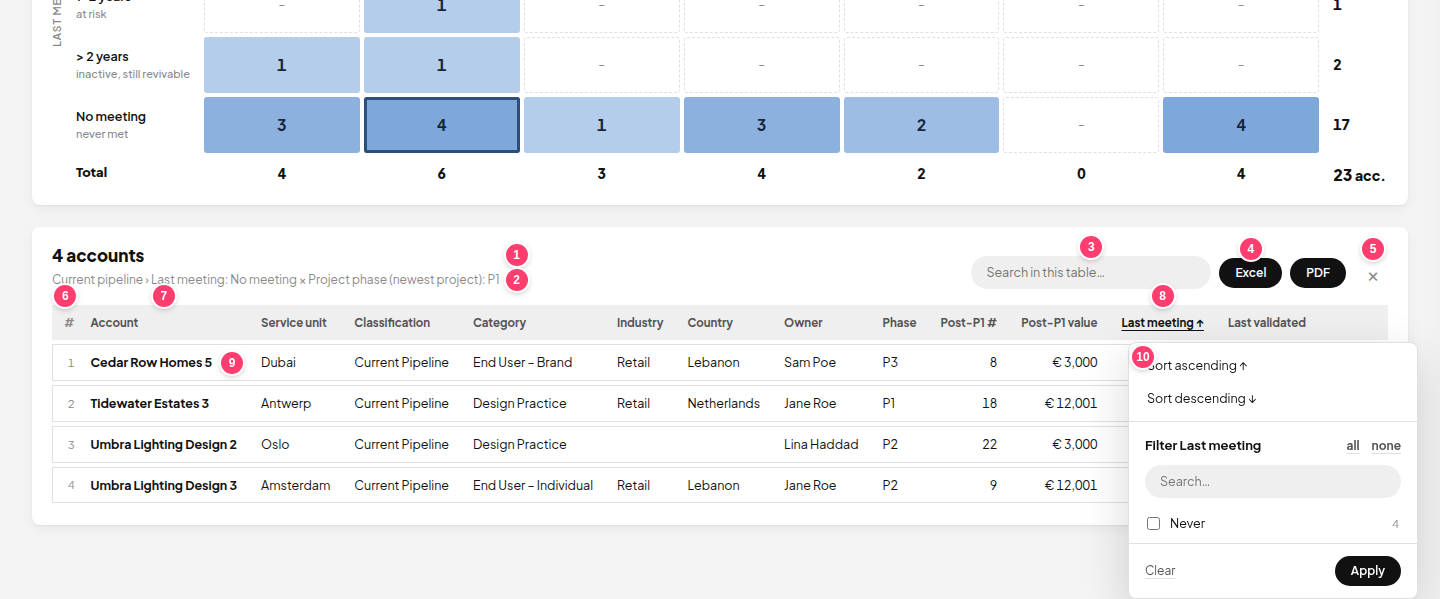
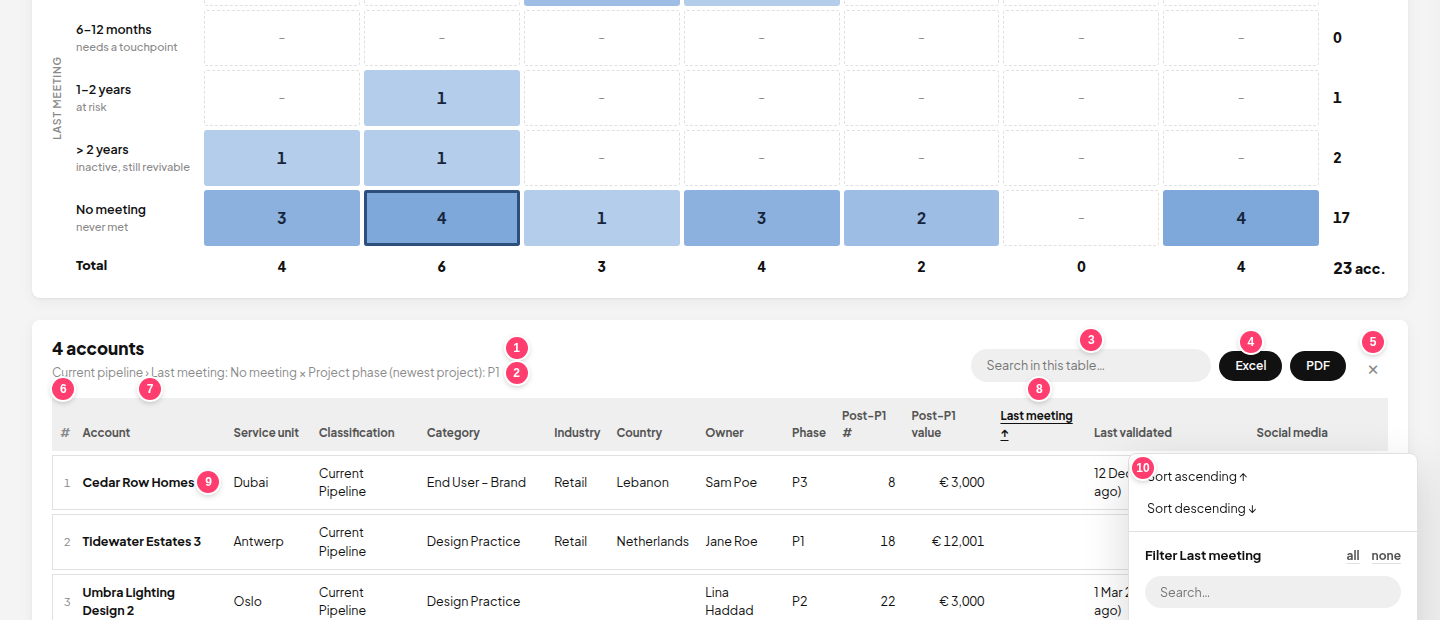
Account table fits the screen: no sideways scrolling
- Text wraps onto a second line instead of making the table wider; amounts
  stay on one line; tighter spacing below 1200px screen width
- Fix: 'Last validated' dates that arrive as text numbers (e.g. "45656") were
  read as the year 45656; they are now read as Excel dates

Claude-Session: https://claude.ai/code/session_01RUoswuWJA3sgR5x3oZAChS

diff --git a/app/table/table-css.html b/app/table/table-css.html
@@ -61,8 +61,9 @@
 }
 
 /* the table itself: square corners, rows spaced apart */
+/* no sideways scrolling: the table always fits the screen, long text wraps onto a second line */
 .tw {
-  overflow: auto;
+  overflow: visible;
 }
 table.tb {
   border-collapse: separate;
@@ -76,8 +77,8 @@ table.tb {
   font-weight: 700;
   color: var(--text-soft);
   background: var(--soft);
-  padding: 9px 12px;
-  white-space: nowrap;
+  padding: 9px 8px;
+  vertical-align: bottom;
   cursor: pointer;
   position: sticky;
   top: 0;
@@ -89,14 +90,11 @@ table.tb {
   text-underline-offset: 3px;
 }
 .tb td {
-  padding: 8px 12px;
+  padding: 8px 8px;
   background: var(--surface);
   border-top: 1px solid var(--line);
   border-bottom: 1px solid var(--line);
-  white-space: nowrap;
-  max-width: 260px;
-  overflow: hidden;
-  text-overflow: ellipsis;
+  overflow-wrap: break-word; /* wrap between words; only a word longer than the column is split */
 }
 .tb td:first-child {
   border-left: 1px solid var(--line);
@@ -117,6 +115,7 @@ table.tb {
 .tb td.num {
   text-align: right;
   font-variant-numeric: tabular-nums;
+  white-space: nowrap; /* keep "€ 2,500,000" on one line */
 }
 /* the # counter column */
 .tb .cnt {
@@ -198,5 +197,20 @@ table.tb {
 }
 .hpop .fp-f {
   grid-column: auto;
+}
+
+/* smaller screens: tighter table so it still fits without scrolling sideways */
+@media (max-width: 1200px) {
+  table.tb {
+    font-size: 11.5px;
+  }
+  .tb th,
+  .tb td {
+    padding-left: 5px;
+    padding-right: 5px;
+  }
+  .tb td {
+    overflow-wrap: anywhere;
+  }
 }
 </style>

diff --git a/app/core/data-js.html b/app/core/data-js.html
@@ -117,6 +117,7 @@ function build(d) {
     a.cur = F(a, 'CurrencySymbol') || '€';
     a.pb = String(F(a, 'classification2') == null ? '' : F(a, 'classification2'));
     var vd = S.validKey ? F(a, S.validKey) : null;
+    if (typeof vd === 'string' && /^\d+(\.\d+)?$/.test(vd.trim())) vd = Number(vd); // an Excel date number stored as text
     if (typeof vd === 'string') {
       var pd = Date.parse(vd);
       vd = isNaN(pd) ? null : pd / 864e5 + 25569;

diff --git a/app/details/details-css.html b/app/details/details-css.html
@@ -137,9 +137,6 @@
 }
 
 /* tables inside the panel (projects, social media) */
-.det table.tb td {
-  max-width: 220px;
-}
 .det .tb th,
 .det .tb tbody tr {
   cursor: default;
